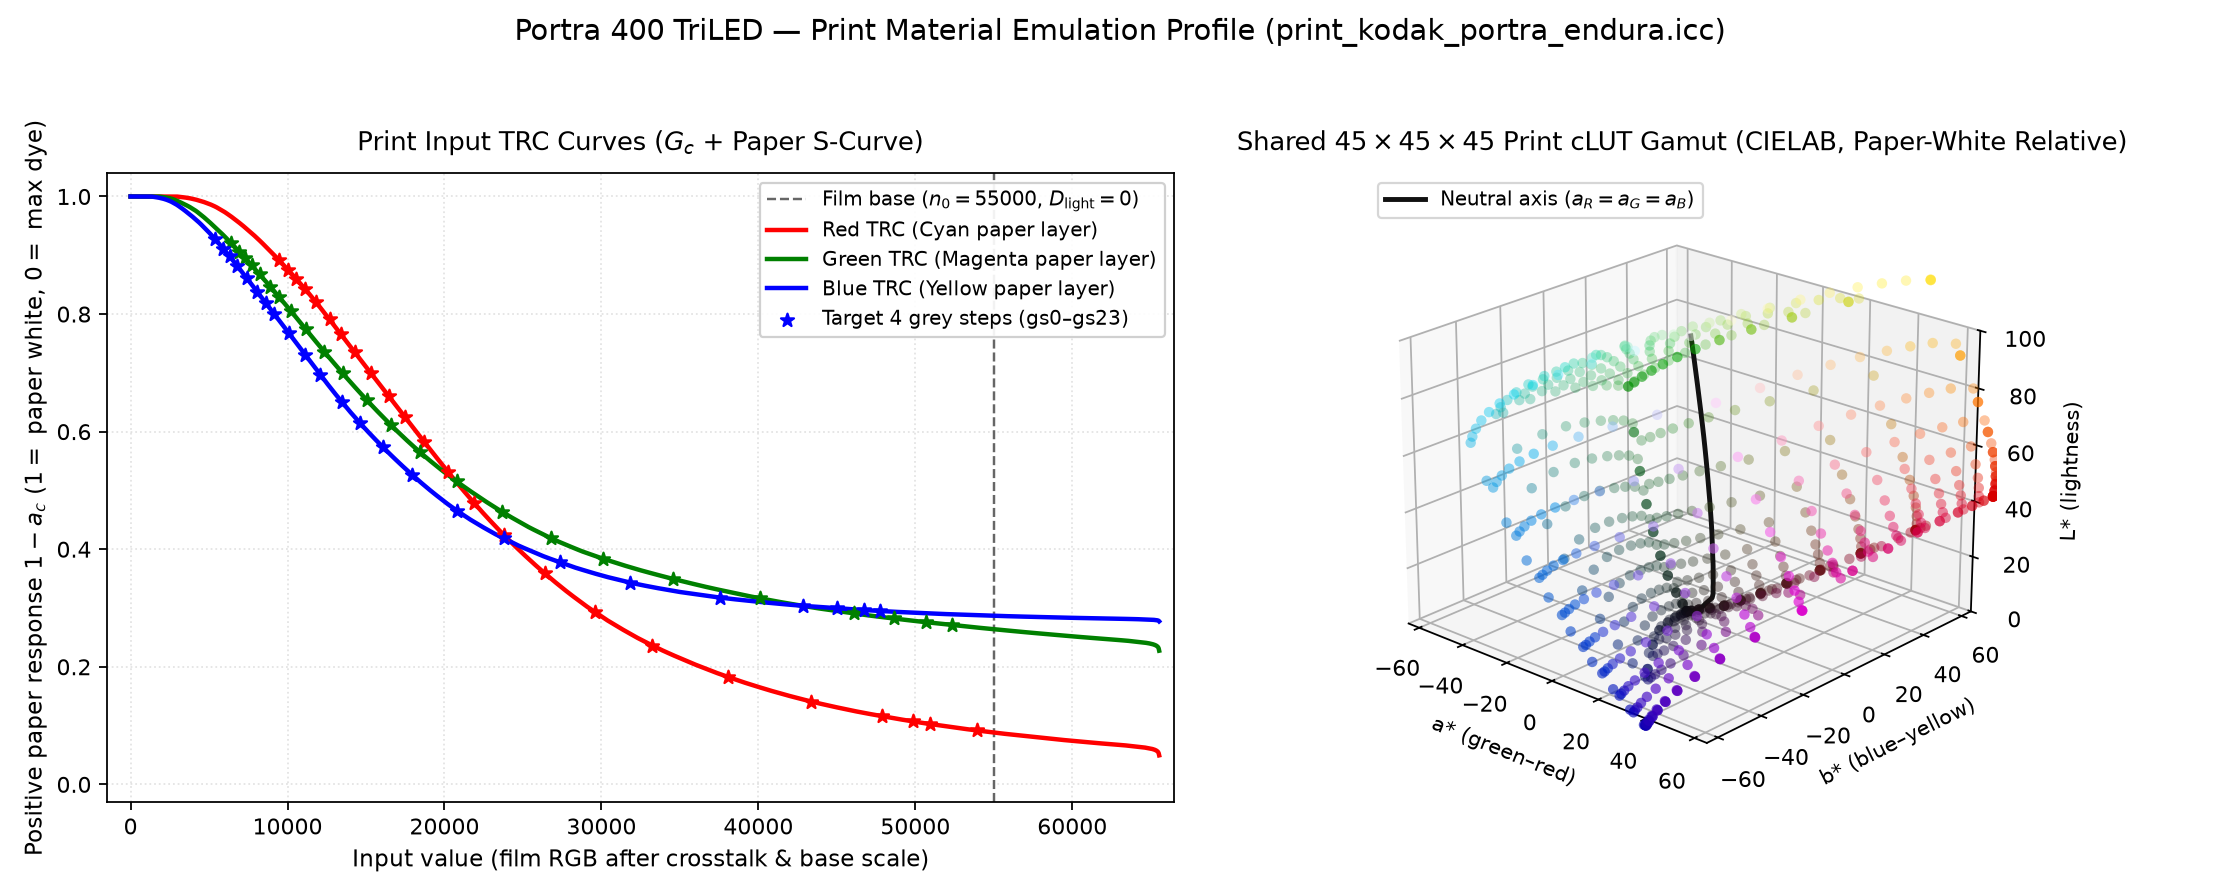
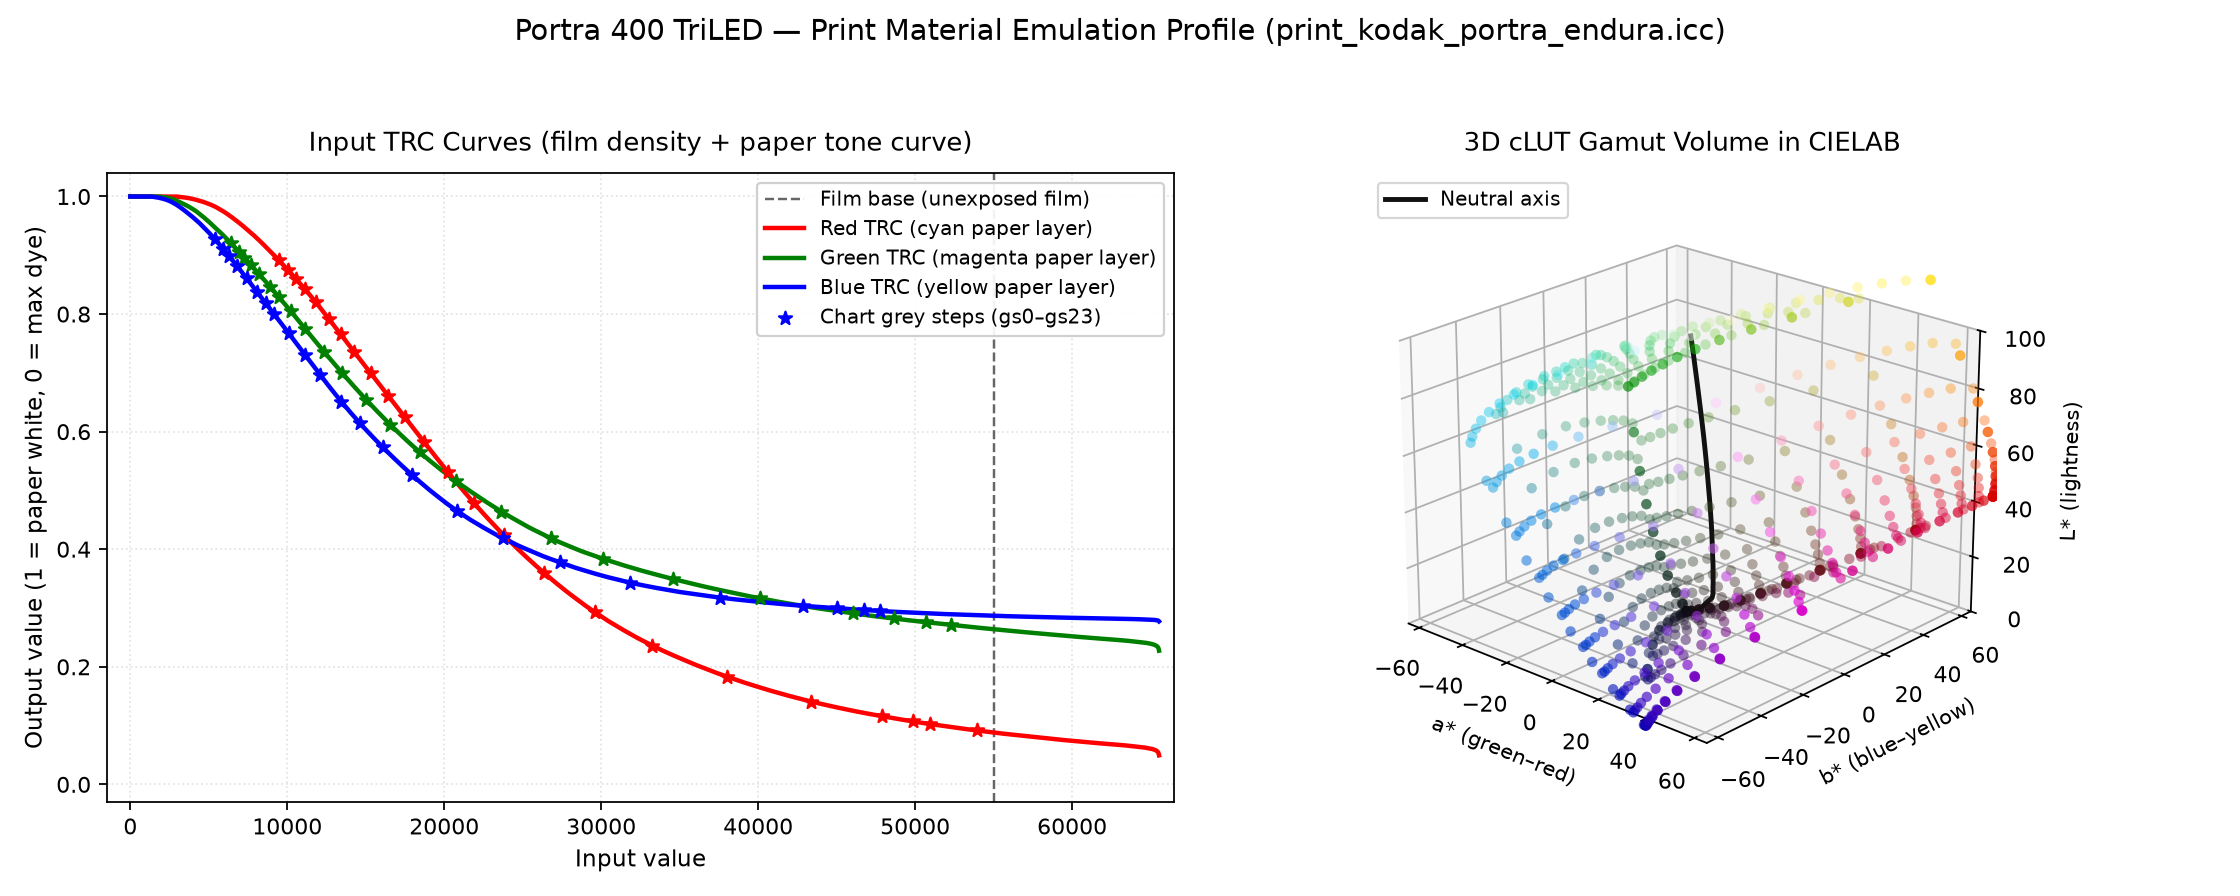
Simplify print emulation prose and figure labels to plain language

diff --git a/README.md b/README.md
@@ -213,26 +213,25 @@ was.
 
 ## Scans from other cameras
 
-A scan from any camera under a white light (`--light_source d65`) can be converted either for **scene colour
-matching** (through the IT8 chart profiles, the white-light curve fit and the tone stage) or for **print emulation**
-(through a print material profile or a density file with a CLF):
+Scans from any camera under white light (`--light_source d65`) can be converted for scene colour matching or for print
+emulation:
 
 ```sh
-# Scene colour matching: IT8 chart profiles, white-light curve fit and tone stage
+# Scene colour matching
 bin_out/neg_process --film_stock portra400 --light_source d65 --roi auto -P srgb -o scene.tif scan.RAW
 
-# Print emulation directly to a picture (print material ICC; no curve fit or tone stage)
+# Print emulation directly to a picture (print material ICC)
 bin_out/neg_process --film_stock portra400 --light_source d65 --print kodak_portra_endura --roi auto -P srgb -o print.tif scan.RAW
 
-# Print emulation via a 16-bit ADX16 (or 10-bit Cineon DPX) density file and a CLF transform
+# Print emulation through an ADX16 (or Cineon DPX) density file and a CLF
 bin_out/neg_process --film_stock portra400 --light_source d65 -P apd --print kodak_portra_endura --roi auto -o density.tif scan.RAW
 ```
 
-Below are three scans people posted on the [pixls.us](https://discuss.pixls.us) forum, taken with cameras and lamps
-the profiles were not made with. Left: the scan as the camera saw it. Right: scene colour matching (`--film_stock
-portra400 --light_source d65 --roi auto -P srgb`, everything else automatic). They were rendered at commit `e7e2fad`
-(2026-11-16); the Portra 400 intent adapter, the way the search reads its previews and the conversion from the profile
-to sRGB have changed since, so the current build may render them differently.
+Three scans people posted on the [pixls.us](https://discuss.pixls.us) forum, taken with cameras and lamps the profiles
+were not made with. Left: the scan as the camera saw it. Right: `neg_process` with
+`--film_stock portra400 --light_source d65 --roi auto -P srgb`, everything else automatic. They were rendered at commit
+`e7e2fad` (2026-11-16); the Portra 400 intent adapter, the way the search reads its previews and the conversion from
+the profile to sRGB have changed since, so the current build may render them differently.
 
 ![Mauritius mountain with river mouth](samples/web_5e74adc30c.jpg)
 
@@ -253,19 +252,18 @@ If one of them is yours and you want it removed, open an issue.
 
 ## Print emulation
 
-Print emulation models shining a 3200 K printer lamp through the negative onto a print material — one of six darkroom
-papers (such as Kodak Portra Endura) or two cinema print films (Kodak Vision 2383 and 2393) from
-[spektrafilm](https://github.com/andreavolpato/spektrafilm) (`--print` alone lists them, or takes a `.json` file).
+Print emulation models shining a printer lamp through the negative onto darkroom paper or motion-picture print film.
+Eight materials from [spektrafilm](https://github.com/andreavolpato/spektrafilm) are built in — six papers (such as
+Kodak Portra Endura) and two print films (Kodak Vision 2383 and 2393); `--print` alone lists them.
 
 ![A negative as negicc's picture, as a print on Portra Endura and as a print on Vision 2383](samples/print_emulation.jpg)
 
 *Left to right: scene colour matching, the print on Portra Endura paper, the print on Vision 2383 print film.*
 
-There are two ways to run it. Both run the same print search (finding the printing exposure `A` and the colour balance
-`g`, `b` on the print itself) and produce the same print:
+There are two ways to run it, and both give the same picture:
 
-1. **Print material emulation ICC (`--print <material> -P srgb`)** — converts the scan directly to a 16-bit sRGB TIFF
-   through the material's print ICC profile (`print_<material>.icc`):
+1. **Print material ICC (`--print <material> -P srgb`)** — writes the print directly as a 16-bit sRGB TIFF through
+   the material's print ICC profile (`print_<material>.icc`):
 
    ```sh
    bin_out/neg_process --film_stock portra400 --light_source tri --print kodak_portra_endura -P srgb \
@@ -273,8 +271,8 @@ There are two ways to run it. Both run the same print search (finding the printi
    ```
 
 2. **Cineon / ADX16 density file and CLF (`-P rp180|apd|statusm --print <material>`)** — writes the negative's
-   measured density above the film base to a 10-bit Cineon DPX (`-P rp180 -o scan.dpx`) or a 16-bit ADX16 TIFF
-   (`-P apd -o scan.tif`), and writes a Common LUT Format transform (`<output>.<material>.clf`) beside it:
+   density above the film base to a 10-bit Cineon DPX (`-P rp180 -o scan.dpx`) or a 16-bit ADX16 TIFF
+   (`-P apd -o scan.tif`), with a CLF transform (`<output>.<material>.clf`) beside it:
 
    ```sh
    bin_out/neg_process --film_stock portra400 --light_source tri -P apd --print kodak_portra_endura \
@@ -282,33 +280,22 @@ There are two ways to run it. Both run the same print search (finding the printi
    oiiotool scan.tif --ociofiletransform scan.tif.kodak_portra_endura.clf -o print.jpg
    ```
 
-### Shared 3D cLUT: log-space matrix vs. input TRC curves
+Both paths use the same 3D colour table (cLUT) for the print material's dyes. The only difference is how the scan
+reaches that table: in the density file and CLF, the pixels are already in log density, so a 3×3 matrix in log space
+applies the printing exposure and colour balance before the paper's tone curve; in the print ICC, the input TRC curves
+do the same job directly on the linear scan values.
 
-The two paths share the same 45 × 45 × 45 colour table (cLUT), which maps the print material's dye amounts to colour
-under its viewing light (D50 for paper, D55 for print film), shown relative to the paper's white. They differ only in
-how they take the scan into that table:
+![Print TRC Curves and 3D cLUT Gamut](samples/print_trc_and_clut.png)
 
-- **In the density file + CLF**, the pixel values in the file are already logarithmic densities above the film base.
-  The CLF applies a **3 × 3 matrix in log (density) space** (shifting by the printing exposure `A` and colour balance,
-  scaling by the film's grey-balance slopes, and multiplying by the print matrix `P`), followed by a 1D LUT of the
-  paper's characteristic S-curve per layer.
-- **In the print ICC**, the input is linear film transmittance after the soft knee. Its **4096-entry input TRC curves**
-  perform the exact same work in one step: they take `-log10` to light density, walk the film's grey balance curve
-  `G_c` at the printing exposure `A` and bracket tilt, and fold in the paper's S-curve (`Paper_c`) so the 45³ cLUT only
-  has to interpolate dye colour and off-axis channel mixing.
-
-![Print TRC Curves and Shared 45x45x45 Print cLUT Gamut](samples/print_trc_and_clut.png)
-
-On a print, the tone stage (`--tone_stage`) is disabled so the picture keeps the print material's original tone curve.
-Under the narrow-band RGB LED (`--light_source tri`), the print emulation matches the full spectral print model to 0.6
-to 1.5 ΔE₀₀ on average; under broadband white light (`--light_source d65`), where the lamp and camera spectra are not
-measured, a printed chart patch differs from the RGB-LED print by 2.7 to 3.3 ΔE₀₀ on average.
+On a print, the tone stage (`--tone_stage`) is disabled so the picture keeps the print material's own tone curve.
+Under the narrow-band RGB LED (`--light_source tri`), the emulation matches the spectral print model to 0.6 to 1.5
+ΔE₀₀ on average; under white light (`--light_source d65`), where the lamp and camera spectra are not measured, a
+printed chart patch differs from the RGB-LED print by 2.7 to 3.3 ΔE₀₀ on average.
 
 ![The same negative as negicc's picture and as a print on each of the eight print materials](samples/print_materials_triled.jpg)
 
-*Top left: scene colour matching (without `--print`). Then the six papers and the two print films, each searched by its
-own print search (`--print <material> -P srgb`) and matched to the scene conversion's lightness with `--brightness`
-(the offset in stops is in each cell's title).*
+*Top left: scene colour matching (without `--print`). Then the six papers and the two print films, each matched to the
+scene conversion's lightness with `--brightness` (the offset in stops is in each cell's title).*
 
 ## Options
 
